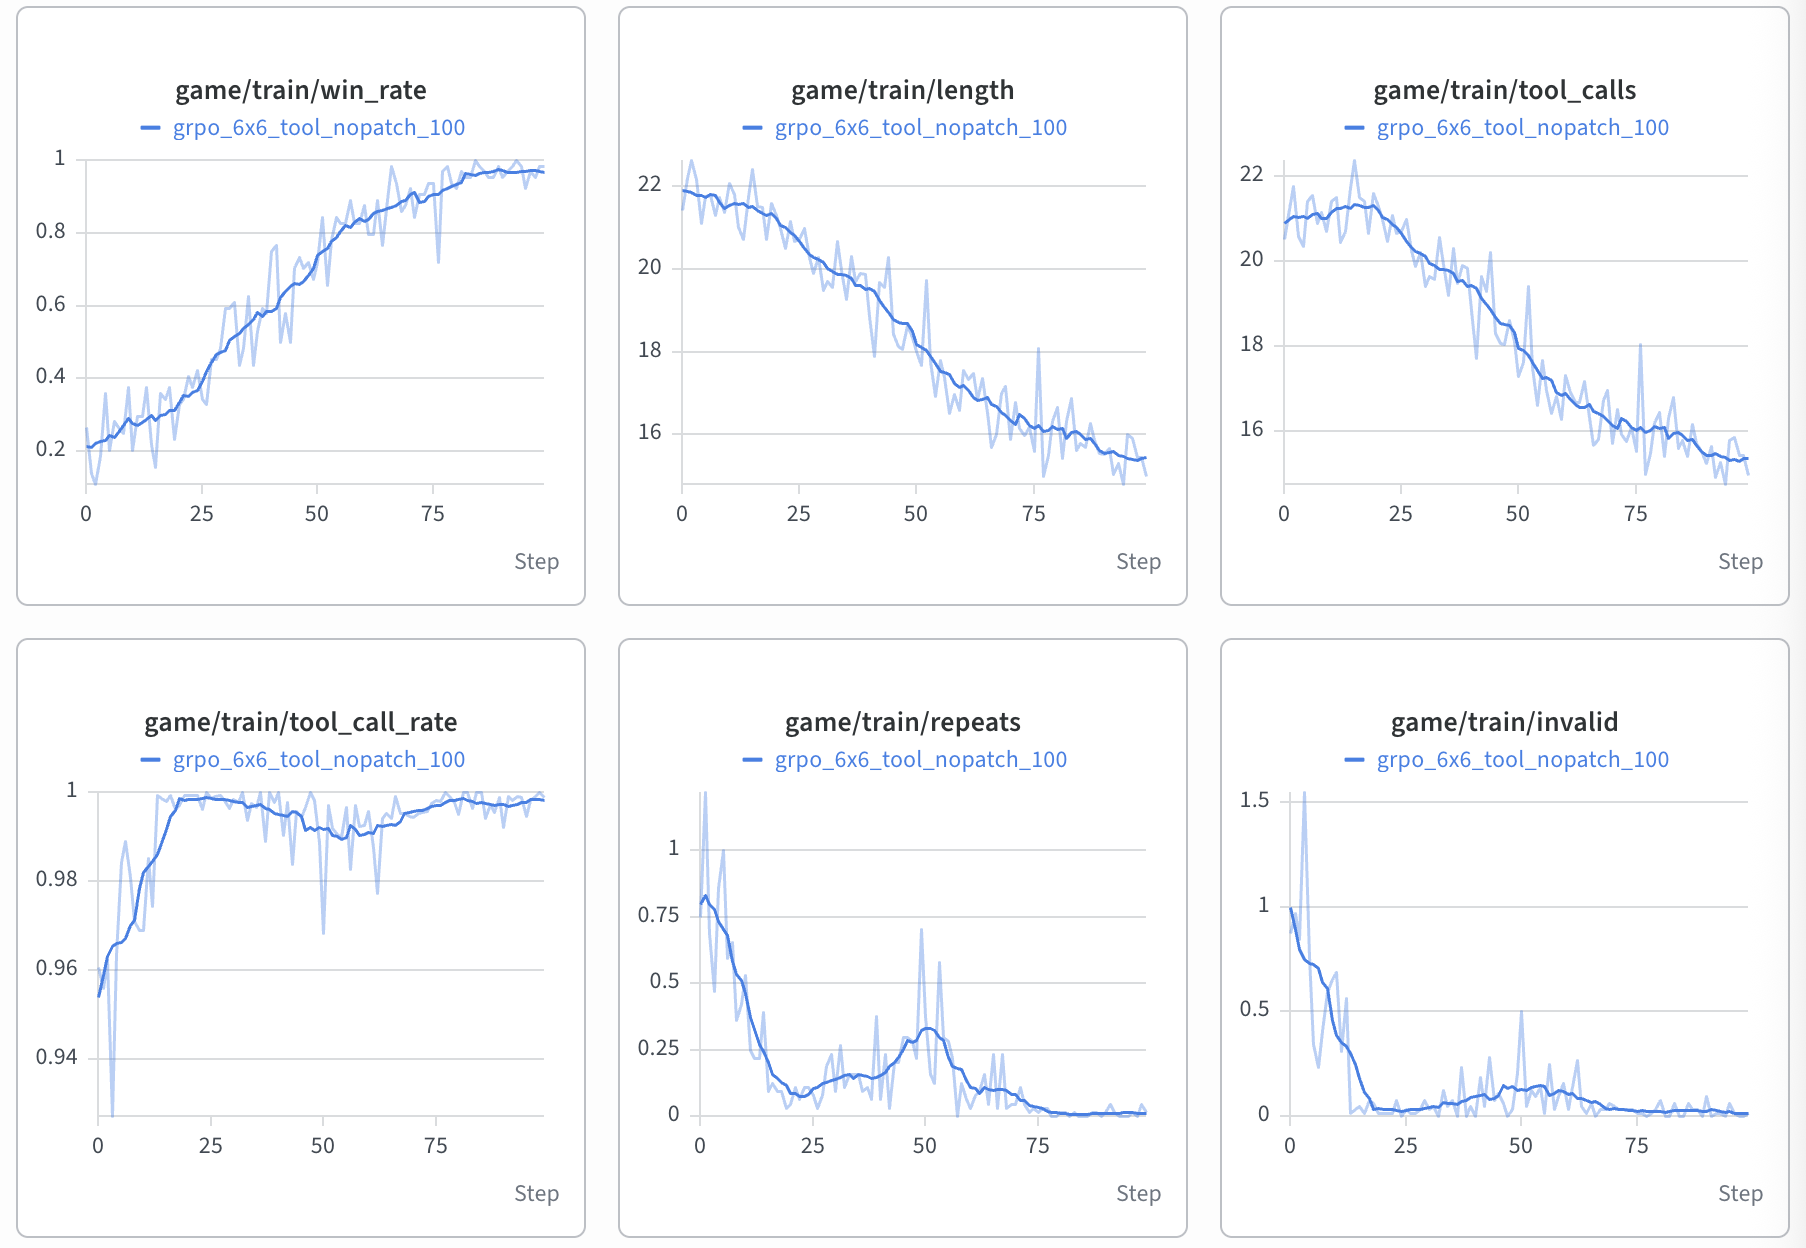
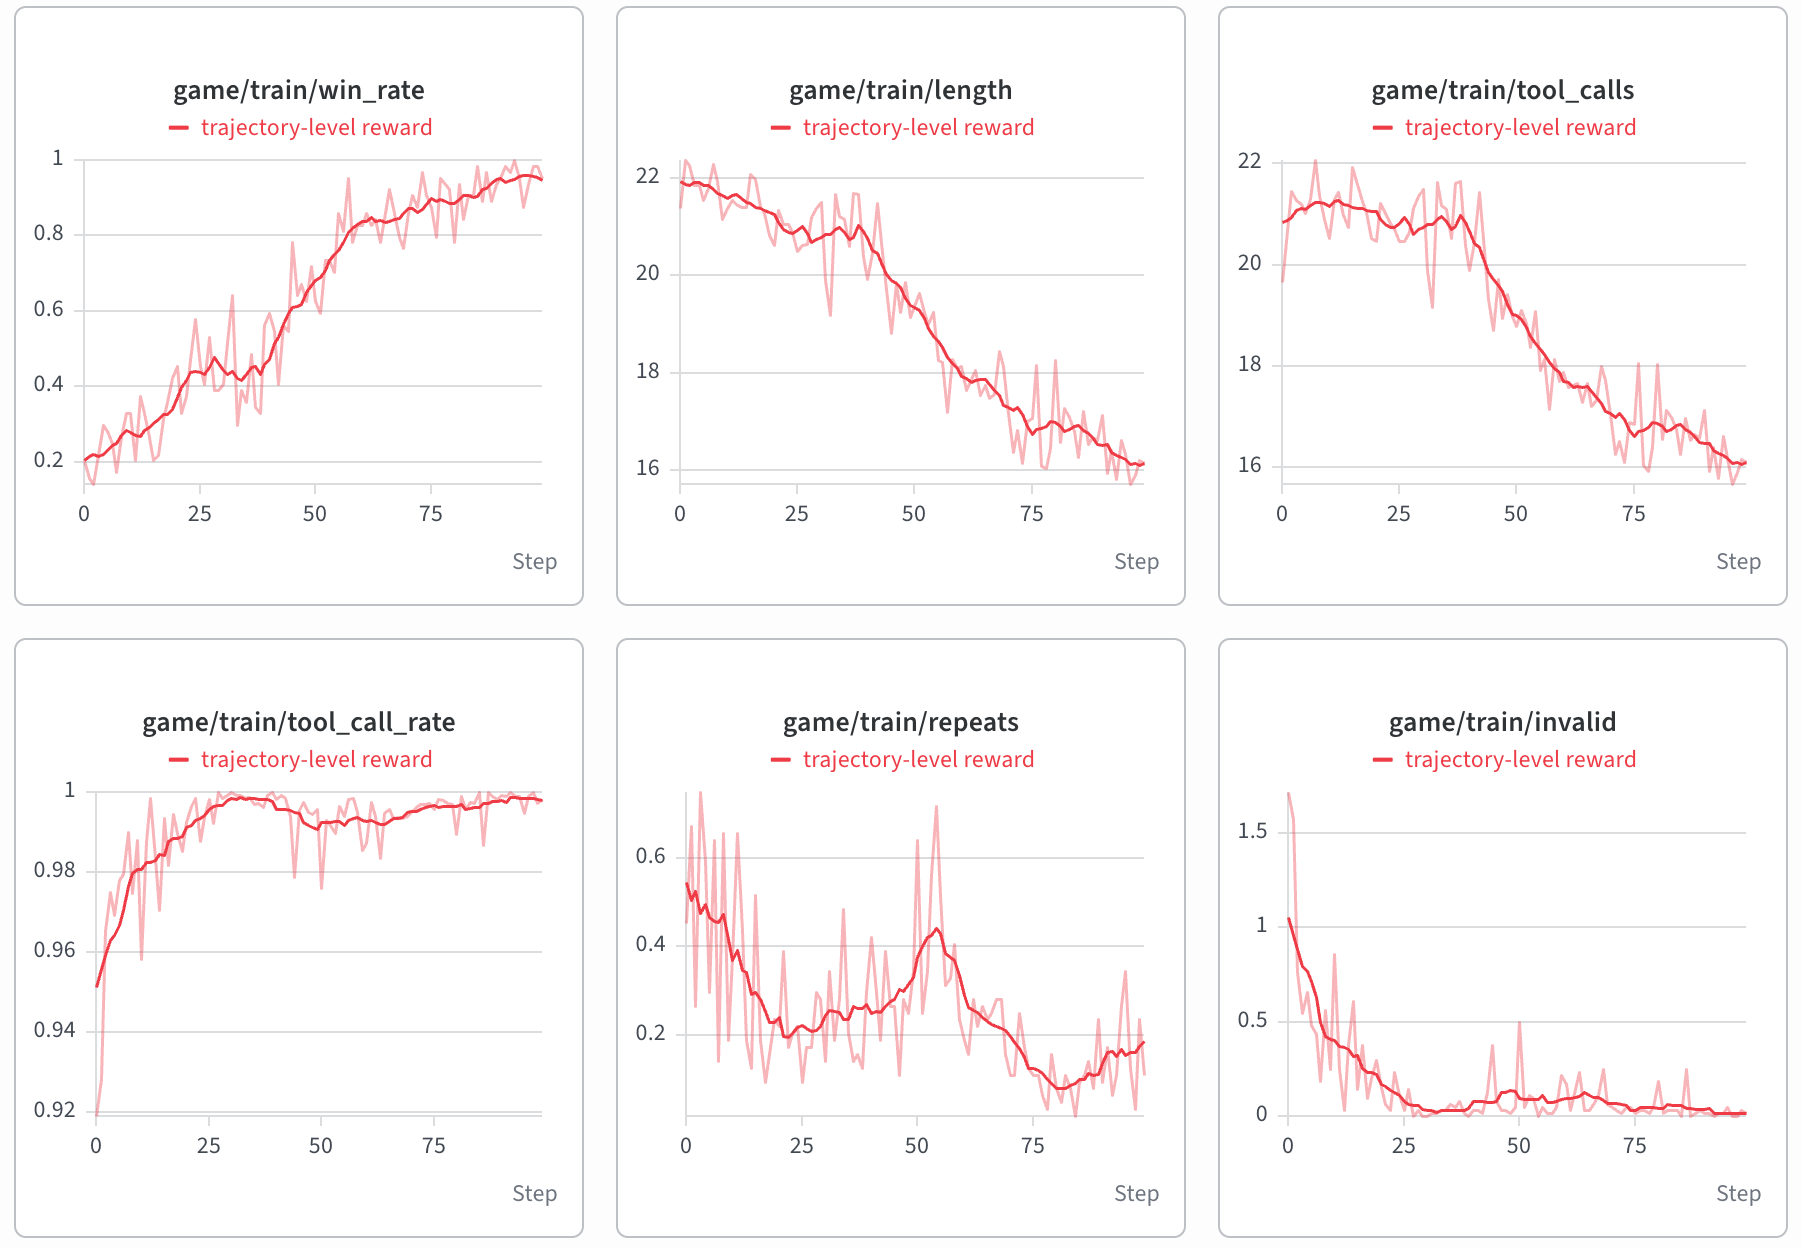
Clean up code

diff --git a/train_planestrike.py b/train_planestrike.py
@@ -75,11 +75,11 @@ logging.basicConfig(
     format="%(asctime)s - %(levelname)s - [%(name)s] %(message)s",
     datefmt="%Y-%m-%d %H:%M:%S",
 )
-from absl import logging as absl_logging  # pylint: disable=g-import-not-at-top
+from absl import logging as absl_logging
 absl_logging.use_python_logging()
 absl_logging.set_verbosity(absl_logging.INFO)
 
-from flax import nnx  # pylint: disable=g-import-not-at-top
+from flax import nnx
 import huggingface_hub
 import jax
 from jax import numpy as jnp
@@ -94,12 +94,10 @@ from tunix.rl import rl_cluster as rl_engine_lib
 from tunix.rl.agentic.agentic_grpo_learner import GRPOConfig, GRPOLearner
 from tunix.rl.rollout import base_rollout
 from tunix.sft import metrics_logger
-
 import agent as agent_lib
 import env as env_lib
 import strike_tool
 import trajectory_utils
-
 
 print("jax devices:", jax.devices())
 MODEL_VERSION = "google/gemma-4-E2B-it"
@@ -107,7 +105,6 @@ MESH_SHAPE = (8, 1)  # (fsdp, tp) for actor, reference and rollout.
 MESH_AXIS_NAMES = ("fsdp", "tp")
 EVAL_SEED_OFFSET = 10_000_000  # Held-out eval boards.
 TRAIN_SEED_OFFSET = 1_000_000 * (1 + args.seed)
-
 
 # ====== Game logging (raw game length per game) ======
 GAMES_PATH = os.path.join(args.run_dir, "games.jsonl")
@@ -119,7 +116,6 @@ if os.path.exists(GAMES_PATH):  # Resumed run: continue the game index.
       game_counts[split] = game_counts.get(split, 0) + 1
 games_writer = SummaryWriter(os.path.join(TB_DIR, "games"))
 
-
 def log_game_to_tensorboard(record):
   split = record["split"]
   game_counts[split] = game_counts.get(split, 0) + 1
@@ -127,10 +123,8 @@ def log_game_to_tensorboard(record):
   games_writer.add_scalar(f"{split}/hits", record["hits"], game_counts[split])
   games_writer.flush()
 
-
 env_lib.GameLogger.path = GAMES_PATH
 env_lib.GameLogger.listeners.append(log_game_to_tensorboard)
-
 
 # ====== Data: generated on the fly ======
 class BoardSeeds:
@@ -148,19 +142,14 @@ class BoardSeeds:
           "split": [self.split] * self.batch_size,
       }
 
-
 train_dataset = BoardSeeds(TRAIN_SEED_OFFSET, args.batch_size, args.num_steps, "train")
 eval_dataset = BoardSeeds(EVAL_SEED_OFFSET, args.num_eval_boards, 1, "eval")
 
-
-# ====== Learner with a per-turn generation cap ======
-# Module-level copies: methods below take *args, which would shadow `args`.
 args_max_response_length = args.max_response_length
 MAX_STEPS_PER_GAME = args.max_steps_per_game
 SOFT_TOKENS_PER_TURN = args.soft_tokens_per_turn
 MAX_TOKENS_PER_TURN = args.max_tokens_per_turn
 TURN_LENGTH_PENALTY = args.turn_length_penalty
-
 
 class PlaneStrikeGRPOLearner(GRPOLearner):
   """Caps each turn's generation so one runaway thought cannot consume the
@@ -213,7 +202,6 @@ class PlaneStrikeGRPOLearner(GRPOLearner):
                              item.traj.get("group_id"), args_max_response_length)
     return super()._process_results(trajectories, mode=mode, expected_step=expected_step)
 
-
 # ====== Model ======
 model_dir = huggingface_hub.snapshot_download(repo_id=MODEL_VERSION, max_workers=16)
 mesh = jax.make_mesh(MESH_SHAPE, MESH_AXIS_NAMES,
@@ -255,7 +243,6 @@ def make_learning_rate():
   return optax.piecewise_constant_schedule(
       points[0][1],
       {step * args.batch_size: lr / prev for (step, lr), (_, prev) in zip(points[1:], points)})
-
 
 optimizer = optax.chain(
     optax.clip_by_global_norm(args.max_grad_norm),
@@ -366,7 +353,6 @@ def metric_fn(prompts, completions, rewards, advantages, **kwargs):
   absl_logging.info("[group] reward mean=%.2f min=%.2f max=%.2f",
                     rewards.mean(), rewards.min(), rewards.max())
   return {"rewards/group_std": (float(rewards.std()), np.mean)}
-
 
 learner = PlaneStrikeGRPOLearner(
     rl_engine=rl_engine,

diff --git a/trajectory_utils.py b/trajectory_utils.py
@@ -1,13 +1,11 @@
-"""Trajectory helpers for agentic GRPO (no Tunix edits): per-turn token counts,
+"""Trajectory helpers for agentic GRPO: per-turn token counts,
 tool calls and the game record on each trajectory, over-budget trimming, and
 reward shaping (truncation and long-turn penalties) added to the trajectory
 reward before Tunix computes its GRPO advantages from it.
 """
 
 from typing import Any
-
 from tunix.rl.agentic.trajectory import trajectory_collect_engine
-
 
 class StepInfoEngine(trajectory_collect_engine.TrajectoryCollectEngine):
   """Adds per-turn token spans, tool-call counts and the env's game record (if
@@ -22,11 +20,9 @@ class StepInfoEngine(trajectory_collect_engine.TrajectoryCollectEngine):
            0 if s.env_tokens is None else len(s.env_tokens))
           for s in steps
       ]
-      # env.close() runs inside collect(), so the record is final here.
       out["game_record"] = getattr(self.env, "game_record", None)
       out["tool_calls_per_turn"] = list(getattr(self.agent, "tool_calls_per_turn", []))
     return out
-
 
 def clip_to_budget(traj: dict, budget: int) -> bool:
   """Trims a trajectory's completion to `budget` tokens; True if it was longer.
@@ -42,34 +38,28 @@ def clip_to_budget(traj: dict, budget: int) -> bool:
       traj[key] = traj[key][:budget]
   return True
 
-
-def penalize_truncation(traj: dict, max_steps: int, step_cost: float) -> float:
+def penalize_truncation(traj: dict, max_steps: int, step_cost: float) -> None:
   """Charges a game cut off before its end (token budget, timeout) for the
   strikes it never made, as if they all missed. Without this, running out of
-  context just ends the game early and long thinking goes unpunished.
-  Returns the penalty applied (0 if the game ended normally)."""
+  context just ends the game early and long thinking goes unpunished."""
   if traj.get("status") in ("SUCCEEDED", "MAX_STEPS_REACHED") or traj.get("truncation_penalty"):
-    return 0.0
+    return
   # A finished game (all 8 hits) ends with status SUCCEEDED; MAX_STEPS_REACHED
   # is the strike cap. Anything else ended early.
   penalty = -step_cost * max(0, max_steps - len(traj["step_token_spans"]))
   traj["trajectory_reward"] = float(traj.get("trajectory_reward") or 0.0) + penalty
   traj["truncation_penalty"] = penalty
-  return penalty
-
 
 def penalize_long_turns(traj: dict, soft_tokens: int, hard_tokens: int,
-                        max_penalty: float) -> float:
+                        max_penalty: float) -> None:
   """DAPO-style soft overlong penalty per turn: 0 up to `soft_tokens` generated
   tokens, growing linearly to -max_penalty at `hard_tokens` (the per-turn cap).
-  Keeps whole games inside the context budget without shrinking it. Returns the
-  total penalty added."""
+  Keeps whole games inside the context budget without shrinking it."""
   if traj.get("length_penalty") is not None:
-    return 0.0
+    return
   total = 0.0
   for n_assistant, _ in traj["step_token_spans"]:
     frac = (n_assistant - soft_tokens) / max(1, hard_tokens - soft_tokens)
     total += -max_penalty * min(1.0, max(0.0, frac))
   traj["trajectory_reward"] = float(traj.get("trajectory_reward") or 0.0) + total
   traj["length_penalty"] = total
-  return total

diff --git a/strike_tool.py b/strike_tool.py
@@ -25,7 +25,6 @@ _STR = '<|"|>'  # Gemma 4's string delimiter in tool calls and responses.
 _CALL_RE = re.compile(r"<\|tool_call>call:(\w+)\{(.*?)\}<tool_call\|>", re.DOTALL)
 _CELL_ARG_RE = re.compile(r'(?:^|,)\s*cell:\s*(?:<\|"\|>|")?([^<",}]*)')
 
-
 class StrikeTool(base_tool.BaseTool):
   """strike(cell) -> "```<cell>```"."""
 
@@ -52,7 +51,6 @@ class StrikeTool(base_tool.BaseTool):
     del kwargs
     return base_tool.ToolOutput(name=self.name, output=f"```{str(cell).strip()}```")
 
-
 def parse_tool_calls(text: str) -> list[tuple[str, dict[str, str]]]:
   """Returns (tool name, {"cell": ...}) for each Gemma 4 tool call in `text`."""
   calls = []
@@ -60,7 +58,6 @@ def parse_tool_calls(text: str) -> list[tuple[str, dict[str, str]]]:
     m = _CELL_ARG_RE.search(body)
     calls.append((name, {"cell": m.group(1).strip()} if m else {}))
   return calls
-
 
 def render_tool_declarations(tokenizer, tools: list[base_tool.BaseTool]) -> str:
   """The `<|tool>declaration:...<tool|>` block that Gemma 4's own chat template
@@ -72,7 +69,6 @@ def render_tool_declarations(tokenizer, tools: list[base_tool.BaseTool]) -> str:
   block = text.split(mark, 1)[1].split("<turn|>", 1)[0]
   assert block.startswith("<|tool>"), block
   return block
-
 
 class Gemma4ToolChatTemplateParser(parser_lib.Gemma4ChatTemplateParser):
   """Gemma4ChatTemplateParser plus native tool declarations and in-turn tool

diff --git a/agent.py b/agent.py
@@ -135,5 +135,4 @@ class PlaneStrikeAgent(base_agent.ConversationAgentBase):
     self._trajectory.steps.append(self.cur_step)
     self.cur_step.action = action
     self.cur_step.model_response = response
-    self.step += 1
     return agent_types.Action(action=action)

diff --git a/README.md b/README.md
@@ -3,13 +3,13 @@
 Agentic RL using the environment from a previous blog ["Building a reinforcement learning agent with JAX, and deploying it on Android with TensorFlow Lite"](https://blog.tensorflow.org/2022/09/building-reinforcement-learning-agent-with-JAX-and-deploying-it-on-android-with-tensorflow-lite.html) + an LLM agent, which uses Gemma 4 E2B (thinking mode on) to play the game in a multi-turn
 conversation and is fine-tuned with GRPO.
 
-## Sample run
+## Sample training run
 
-Train metrics of a 100-step run with an earlier turn-level credit assignment
-(since removed): win rate 0.17 -> 0.95, game length 22 -> ~15.7 strikes, repeats
-and invalid strikes down to ~0.
+Train metrics of a 100-step run.
 
 ![Train metrics of a 100-step run: win rate, tool calls, game length, tool-call rate, repeats and invalid strikes per step](sample_train_curves.png)
+
+Better result can potentially be achieved with turn-level credit assignement.
 
 ## Running
 
@@ -77,13 +77,6 @@ TPU v6e-8 single host with Python 3.12:
   and -0.5 per strike. The trajectory reward is the sum, i.e.
   `hits - 0.5 * game_length - repeats - invalid`. Every unfinished game has
   length 23, so the step cost only separates finished games: shorter is better.
-
-## Credit assignment: trajectory-level GRPO
-
-Tunix's agentic `GRPOLearner` as is: every token of a game gets the same
-advantage, computed from the game's total reward (plus the truncation and
-long-turn penalties) relative to the other games on the same board
-(`--advantage_estimator rloo`).
 
 
 
